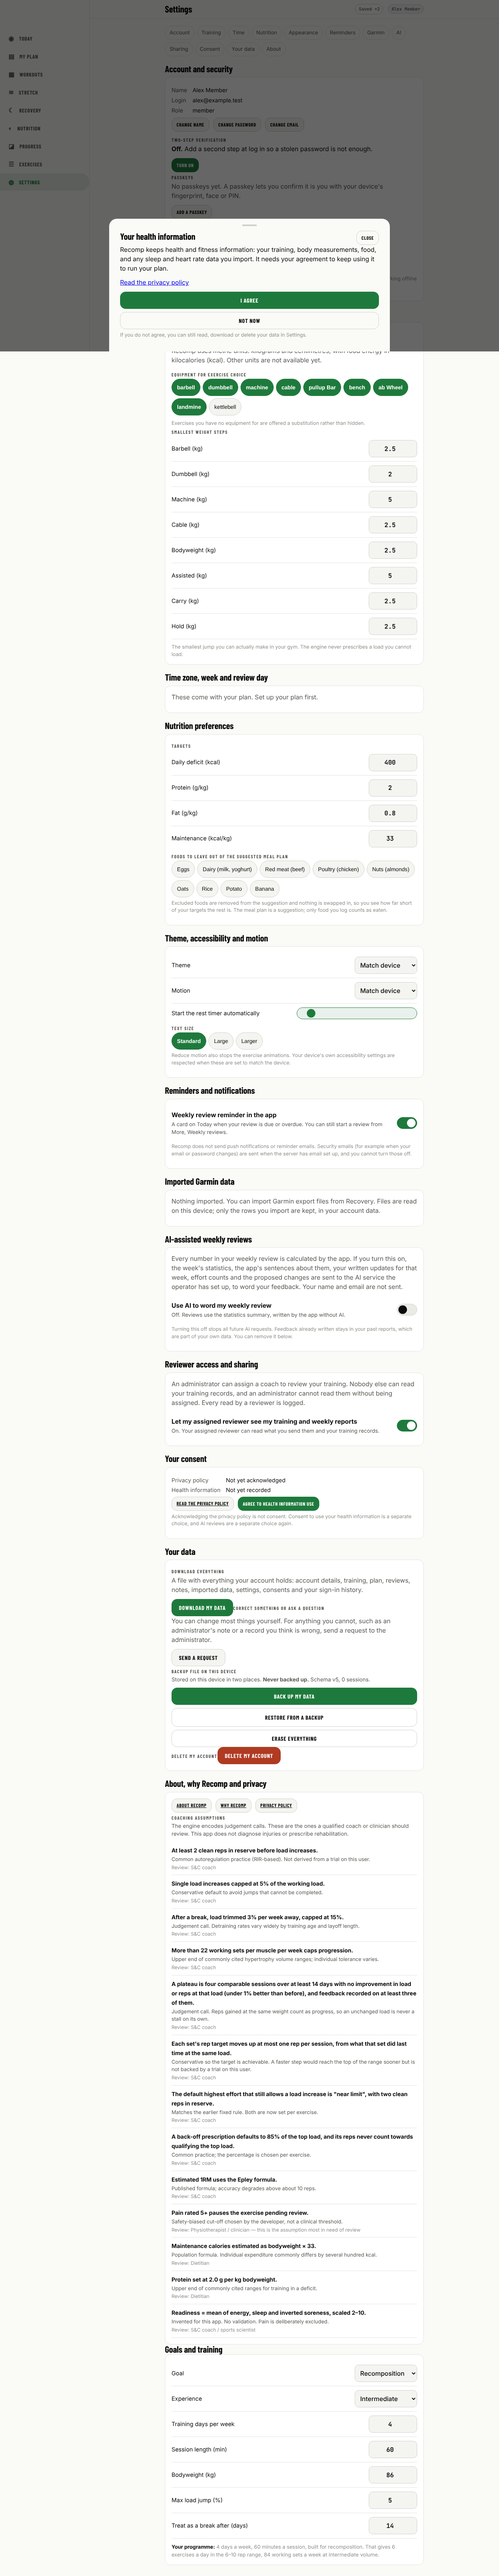
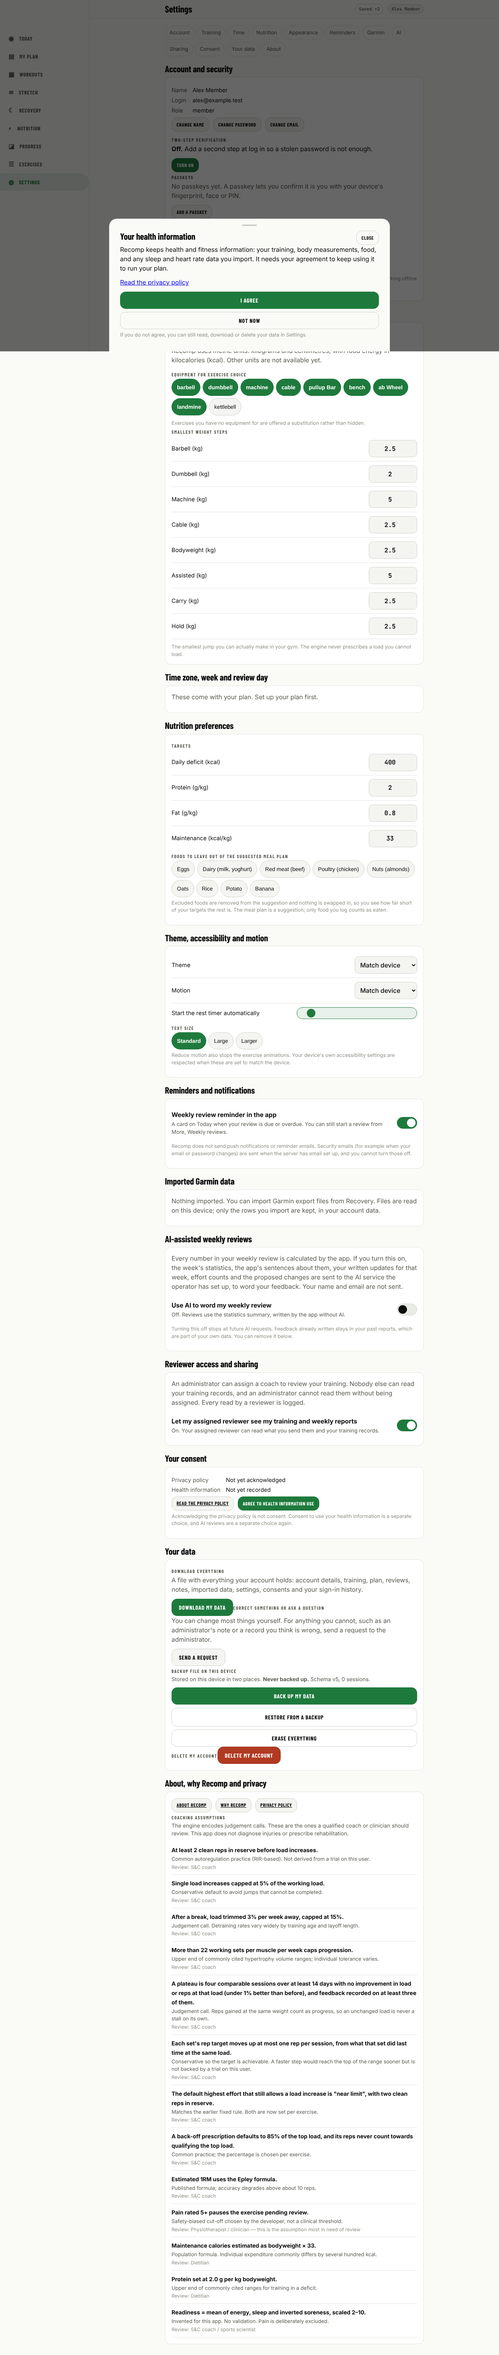
Move goals out of the top of Settings once set up
Goal, experience, days and session length are asked by the plan setup, so
the old Goals and training card no longer leads Settings. With a plan,
Settings shows the plan summary and a Change button; bodyweight, max load
jump and break length sit in a collapsed section. Before a plan exists the
setup button leads and the old card is collapsed.

Claude-Session: https://claude.ai/code/session_01D8fWU7ZyUsQpeubJBAFZjX

diff --git a/gym/public/app.js b/gym/public/app.js
@@ -1569,19 +1569,26 @@ function openStretch(s) {
 function renderProfile() {
   const P = S.profile;
   const g = $('#profGoals'); g.innerHTML = '';
-  g.appendChild(selectField('Goal','goal',P.goal,[['recomp','Recomposition'],['strength','Strength'],['hypertrophy','Hypertrophy'],['fatloss','Fat loss']],v=>{P.goal=v;}));
-  g.appendChild(selectField('Experience','experience',P.experience,[['novice','Novice'],['intermediate','Intermediate'],['advanced','Advanced']],v=>{P.experience=v;}));
-  g.appendChild(numField('Training days per week', P.trainingDaysPerWeek, 1, v => P.trainingDaysPerWeek = v));
-  g.appendChild(numField('Session length (min)', P.sessionMinutes, 5, v => P.sessionMinutes = v));
+  /* Once a plan exists its goals are set in the plan setup, so only the fields the
+     setup does not ask for stay here (Settings shows them collapsed). */
+  const planned = !!(window.Plan && Plan.hasPlan && Plan.hasPlan(S));
+  if (!planned) {
+    g.appendChild(selectField('Goal','goal',P.goal,[['recomp','Recomposition'],['strength','Strength'],['hypertrophy','Hypertrophy'],['fatloss','Fat loss']],v=>{P.goal=v;}));
+    g.appendChild(selectField('Experience','experience',P.experience,[['novice','Novice'],['intermediate','Intermediate'],['advanced','Advanced']],v=>{P.experience=v;}));
+    g.appendChild(numField('Training days per week', P.trainingDaysPerWeek, 1, v => P.trainingDaysPerWeek = v));
+    g.appendChild(numField('Session length (min)', P.sessionMinutes, 5, v => P.sessionMinutes = v));
+  }
   g.appendChild(numField('Bodyweight (kg)', P.bodyweightKg, 0.5, v => P.bodyweightKg = v));
   g.appendChild(numField('Max load jump (%)', P.maxLoadJumpPct, 1, v => P.maxLoadJumpPct = v));
   g.appendChild(numField('Treat as a break after (days)', P.returnBreakDays, 1, v => P.returnBreakDays = v));
 
-  const prog = currentProgram();
-  g.appendChild(el('p','dim',
-    `<b style="color:var(--text)">Your programme:</b> ${esc(prog.explain)}` +
-    (prog.notes && prog.notes.length ? '<br>' + prog.notes.map(esc).join('<br>') : '')));
-  g.lastChild.style.cssText = 'font-size:.82rem;margin:12px 0 0;line-height:1.5';
+  if (!planned) {
+    const prog = currentProgram();
+    g.appendChild(el('p','dim',
+      `<b style="color:var(--text)">Your programme:</b> ${esc(prog.explain)}` +
+      (prog.notes && prog.notes.length ? '<br>' + prog.notes.map(esc).join('<br>') : '')));
+    g.lastChild.style.cssText = 'font-size:.82rem;margin:12px 0 0;line-height:1.5';
+  }
 
   const eq = $('#profEquip'); eq.innerHTML = '';
   Object.keys(P.equipment).forEach(k => {

diff --git a/gym/public/views-settings.js b/gym/public/views-settings.js
@@ -219,9 +219,17 @@ const Settings = (function () {
       c.appendChild(el('dl', 'kv', `<dt>Goal</dt><dd>${esc(Plan.GOALS[g.primary].label)}</dd><dt>Days</dt><dd>${g.daysPerWeek} a week${g.preferredDays && g.preferredDays.length ? ' (' + g.preferredDays.map(d => Plan.DOW_NAMES[d].slice(0, 3)).join(', ') + ')' : ''}</dd><dt>Session length</dt><dd>${g.sessionMinutes} minutes</dd><dt>Equipment</dt><dd>${esc(Object.keys(g.equipment).filter(k => g.equipment[k]).join(', '))}</dd>`));
       const b = el('button', 'btn', 'Change goals, equipment and availability'); b.onclick = () => PlanUI.openGoals(false); c.appendChild(b);
       note(c, 'Changes create a new plan version from next week. Your history stays exactly as it is.');
-      ['#profGoals'].forEach(sel => { const n = document.querySelector('#p-profile ' + sel); if (n) { n.hidden = true; if (n.previousElementSibling && n.previousElementSibling.tagName === 'H2') n.previousElementSibling.hidden = true; } });
+      /* bodyweight and progression limits: kept, but out of the way */
+      const more = el('details', 'set-more'); more.id = 'setTrainingMore';
+      more.appendChild(el('summary', null, 'Bodyweight and progression limits'));
+      c.appendChild(more); moveInto(more, '#profGoals', null);
+      const pg = document.getElementById('profGoals'); if (pg) pg.hidden = false;
     } else {
+      /* first time: the plan setup asks for goals; the old card stays collapsed */
       const b = el('button', 'btn primary', 'Set up my plan'); b.onclick = () => PlanUI.openGoals(true); c.appendChild(b);
+      const more = el('details', 'set-more'); more.id = 'setTrainingMore';
+      more.appendChild(el('summary', null, 'Bodyweight and progression limits'));
+      c.appendChild(more); moveInto(more, '#profGoals', null);
     }
     c.appendChild(el('span', 'eyebrow', 'Units'));
     c.appendChild(el('p', 'muted', 'Recomp uses metric units: kilograms and centimetres, with food energy in kilocalories (kcal). Other units are not available yet.'));

diff --git a/gym/test/settings.ui.test.js b/gym/test/settings.ui.test.js
@@ -121,6 +121,19 @@ const BACKEND = fs.existsSync(path.join(GYM, 'backend/src/api.js')) ? path.join(
     const x = text(c.d.querySelector('#p-profile'));
     ['Account and security', 'Goals, equipment and availability', 'Time zone, week and review day', 'Nutrition preferences', 'Theme, accessibility and motion', 'Reminders and notifications', 'Imported Garmin data', 'AI-assisted weekly reviews', 'Reviewer access and sharing', 'Your consent', 'Your data', 'About, why Recomp and privacy'].forEach(s => ok(x.includes(s), s));
   });
+  t('goals are set in the plan setup, not in a prominent card at the top of Settings', () => {
+    const pg = c.d.getElementById('profGoals'), planned = c.w.Plan.hasPlan(c.A.S);
+    if (planned) {
+      const det = pg.closest('details'); ok(det && det.id === 'setTrainingMore', 'inside the collapsed section'); ok(!det.open, 'collapsed by default');
+      ok(/Bodyweight \(kg\)/.test(text(pg)) && /Max load jump/.test(text(pg)), 'bodyweight and limits still reachable');
+      ok(!/Training days per week|Session length/.test(text(pg)), 'no duplicate goal fields');
+      ok(/Change goals, equipment and availability/.test(text(c.d.querySelector('#p-profile'))));
+    } else {
+      ok(pg.closest('details') && !pg.closest('details').open, 'old goals card collapsed before the plan exists');
+      ok(/Set up my plan/.test(text(c.d.querySelector('#p-profile'))));
+    }
+    const first = c.d.querySelector('#p-profile h2:not([hidden])'); ok(!first || !/Goals and training/.test(first.textContent), 'no Goals and training heading');
+  });
   t('sessions are listed with this device marked', () => ok(/this device/.test(text(c.d.querySelector('#setSessions')))));
   t('AI reviews are off by default, with what happens to past reports explained', () => {
     eq(c.d.getElementById('setAiToggle').checked, false); ok(/Feedback already written stays in your past reports/.test(text(c.d.querySelector('#set-ai'))));

diff --git a/gym/public/content.css b/gym/public/content.css
@@ -72,3 +72,6 @@ body.doc-open{overflow:hidden}
 :root[data-text="large"]{font-size:112.5%}
 :root[data-text="larger"]{font-size:125%}
 body.adm-reauth #vSheet{z-index:1000}
+.set-more{margin-top:12px;border-top:1px solid var(--line);padding-top:10px}
+.set-more>summary{cursor:pointer;color:var(--muted, inherit);font-size:.9rem;padding:6px 0;min-height:44px;display:flex;align-items:center}
+.set-more[open]>summary{margin-bottom:6px}

diff --git a/gym/docs/security/README.md b/gym/docs/security/README.md
@@ -25,10 +25,10 @@ an in-memory database; no real data is involved. Result on 2026-10-10, branch
 | backend signup | 42 | pass |
 | backend ai | 25 | pass |
 | backend weekly | 18 | pass |
-| app settings and public pages (`test/settings.ui.test.js`, runs the real backend) | 42 | pass |
+| app settings and public pages (`test/settings.ui.test.js`, runs the real backend) | 43 | pass |
 | app sign-in and MFA (`test/auth.ui.test.js`) | 90 | pass |
 | other app suites (training, plan, review, Garmin, coaching, library, regression) | 498 | pass |
-| **Total** | **822** | **all pass** |
+| **Total** | **823** | **all pass** |
 
 Checked by hand in Chromium on 2026-10-10 (screenshots in `gym/docs/screens/security/`):
 public pages open from a direct link before sign-in; sign-out removes the IndexedDB copy;
